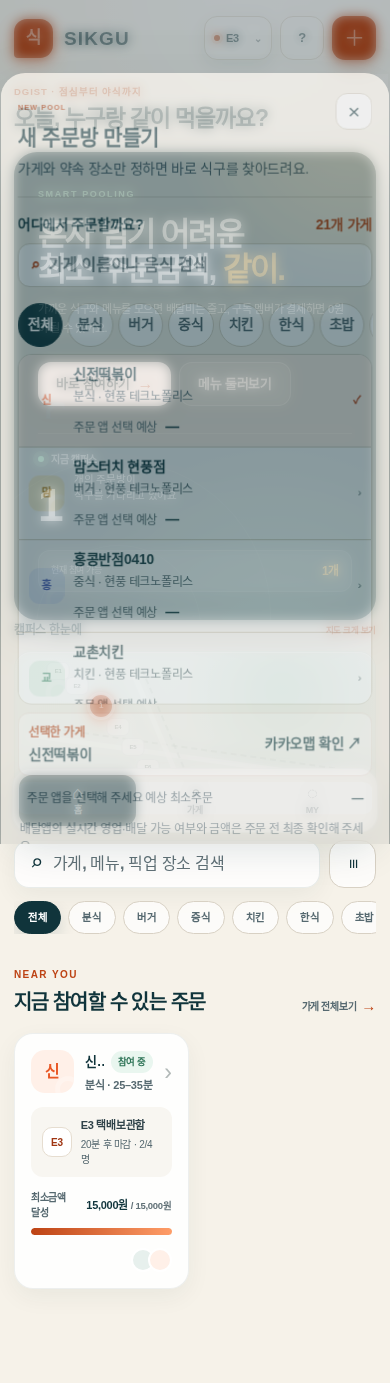
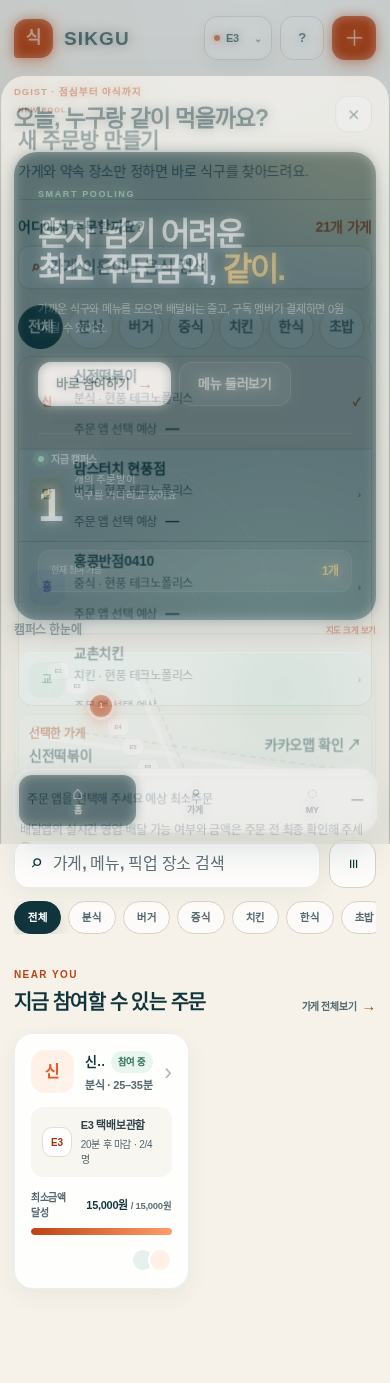
Plan group 3: behaviour tests for the risky paths, runtime security headers
Harness tests now cover the health 503 path, the order-info PUT round trip
with a receipt that approved members fetch, the approve/reject/remove
cycle as both sides see it, and a delete that empties every table and the
receipt prefix. Browser tests cover the room-sheet 401 redirect, a feed
poll racing a load-more page, and the security headers on real responses
from the worker. The source-regex tests those replace are removed, the
client-source splice helper asserts its anchors, and the one test that
needs a build skips with a clear message when dist/ is absent.

117 Node and 15 Playwright tests pass. Completes COMPLETION.md items B3, D2.

diff --git a/browser-tests/sikgu.spec.ts b/browser-tests/sikgu.spec.ts
@@ -224,3 +224,56 @@ test('A4: the room sheet closes itself with the right message when the room is g
   await expect(page.locator('.toast')).toContainText('방장이 주문방을 삭제했어요.');
   await expect(page.getByRole('dialog',{name:'비공개 주문방 채팅'})).toHaveCount(0);
 });
+
+test('B3: every response from the worker carries the browser security headers',async({page})=>{
+  for(const path of ['/','/api/sikgu?action=health']){
+    const response=await page.request.get(path);
+    const headers=response.headers();
+    expect(headers['content-security-policy'],path).toContain("default-src 'self'");
+    expect(headers['content-security-policy'],path).toContain("frame-ancestors 'none'");
+    expect(headers['content-security-policy'],path).toContain("object-src 'none'");
+    expect(headers['x-content-type-options'],path).toBe('nosniff');
+    expect(headers['x-frame-options'],path).toBe('DENY');
+    expect(headers['referrer-policy'],path).toBe('strict-origin-when-cross-origin');
+    expect(headers['permissions-policy'],path).toContain('camera=()');
+  }
+  const api=await page.request.get('/api/sikgu?action=health');
+  expect(api.headers()['cache-control']).toBe('private, no-store');
+});
+
+test('D2: an expired session inside the room sheet goes to sign-in instead of a retry loop',async({page})=>{
+  await mockApi(page);
+  await page.route('**/api/sikgu?action=room**',async route=>route.fulfill({status:401,json:{error:'로그인이 필요합니다.',signInPath:'/signin-with-chatgpt?return_to=/'}}));
+  await page.route('**/signin-with-chatgpt**',async route=>route.fulfill({contentType:'text/html',body:'<title>sign-in</title><p>sign-in page</p>'}));
+  await page.goto('/');
+  await page.locator('.pool-card').first().click();
+  await page.getByRole('button',{name:/참여자 관리/}).click();
+  await expect(page).toHaveURL(/\/signin-with-chatgpt\?return_to=/);
+  await expect(page.getByText('sign-in page')).toBeVisible();
+});
+
+test('D2: a feed poll that lands first does not discard a load-more page',async({page})=>{
+  const first={...room,id:'room_page1'},second={...room,id:'room_page2',restaurantId:'mom'};
+  let boots=0,release!:()=>void,started!:()=>void;
+  const moreStarted=new Promise<void>(r=>{started=r});
+  await page.route('**/api/sikgu**',async route=>{
+    const url=new URL(route.request().url());
+    if(url.searchParams.has('roomsCursor')){
+      started();await new Promise<void>(r=>{release=r});
+      return route.fulfill({json:{rooms:[second],myRooms:[],nextRoomsCursor:null}});
+    }
+    boots++;
+    return route.fulfill({json:{user:{displayName:'테*트'},serverNow:Date.now(),rooms:[first],myRooms:[],nextRoomsCursor:'page2',nextMyRoomsCursor:null}});
+  });
+  await page.goto('/');
+  await expect(page.locator('.pool-card')).toHaveCount(1);
+  const bootsBefore=boots;
+  await page.getByRole('button',{name:'주문방 더 보기',exact:true}).click();
+  await moreStarted;
+  // A visibility change wakes the poller, so a fresh page-1 response lands while page 2 is still in flight.
+  await page.evaluate(()=>document.dispatchEvent(new Event('visibilitychange')));
+  await expect.poll(()=>boots).toBeGreaterThan(bootsBefore);
+  release();
+  await expect(page.locator('.pool-card')).toHaveCount(2);
+  await expect(page.locator('.pool-card').nth(1)).toContainText('맘스터치');
+});

diff --git a/COMPLETION.md b/COMPLETION.md
@@ -63,7 +63,7 @@ Each item: acceptance check, size (S ≤ half a day, M ≤ 2 days, L ≤ a week)
   the INSERT like the chat limiter.
   *Accept:* harness test with the limit crossed under concurrent requests.
 
-- [ ] **B3 · Runtime security headers** (S)
+- [x] **B3 · Runtime security headers** (S)
   One test fetches the built worker (or a Playwright request) and asserts
   CSP, `X-Content-Type-Options`, `Referrer-Policy` and frame headers from the
   actual response instead of regexes over `worker/index.ts`.
@@ -106,7 +106,7 @@ Each item: acceptance check, size (S ≤ half a day, M ≤ 2 days, L ≤ a week)
   test:browser` and `npm audit --omit=dev --audit-level=high`.
   *Accept:* both steps green on `main`.
 
-- [ ] **D2 · Behaviour tests replace source regexes for the risky paths** (M)
+- [x] **D2 · Behaviour tests replace source regexes for the risky paths** (M)
   New tests for: room GET 401 redirect, load-more racing a poll, host
   approve / reject / remove round trip, order-info PUT round trip, DELETE
   round trip, health 503. Source-regex assertions that lock implementation
